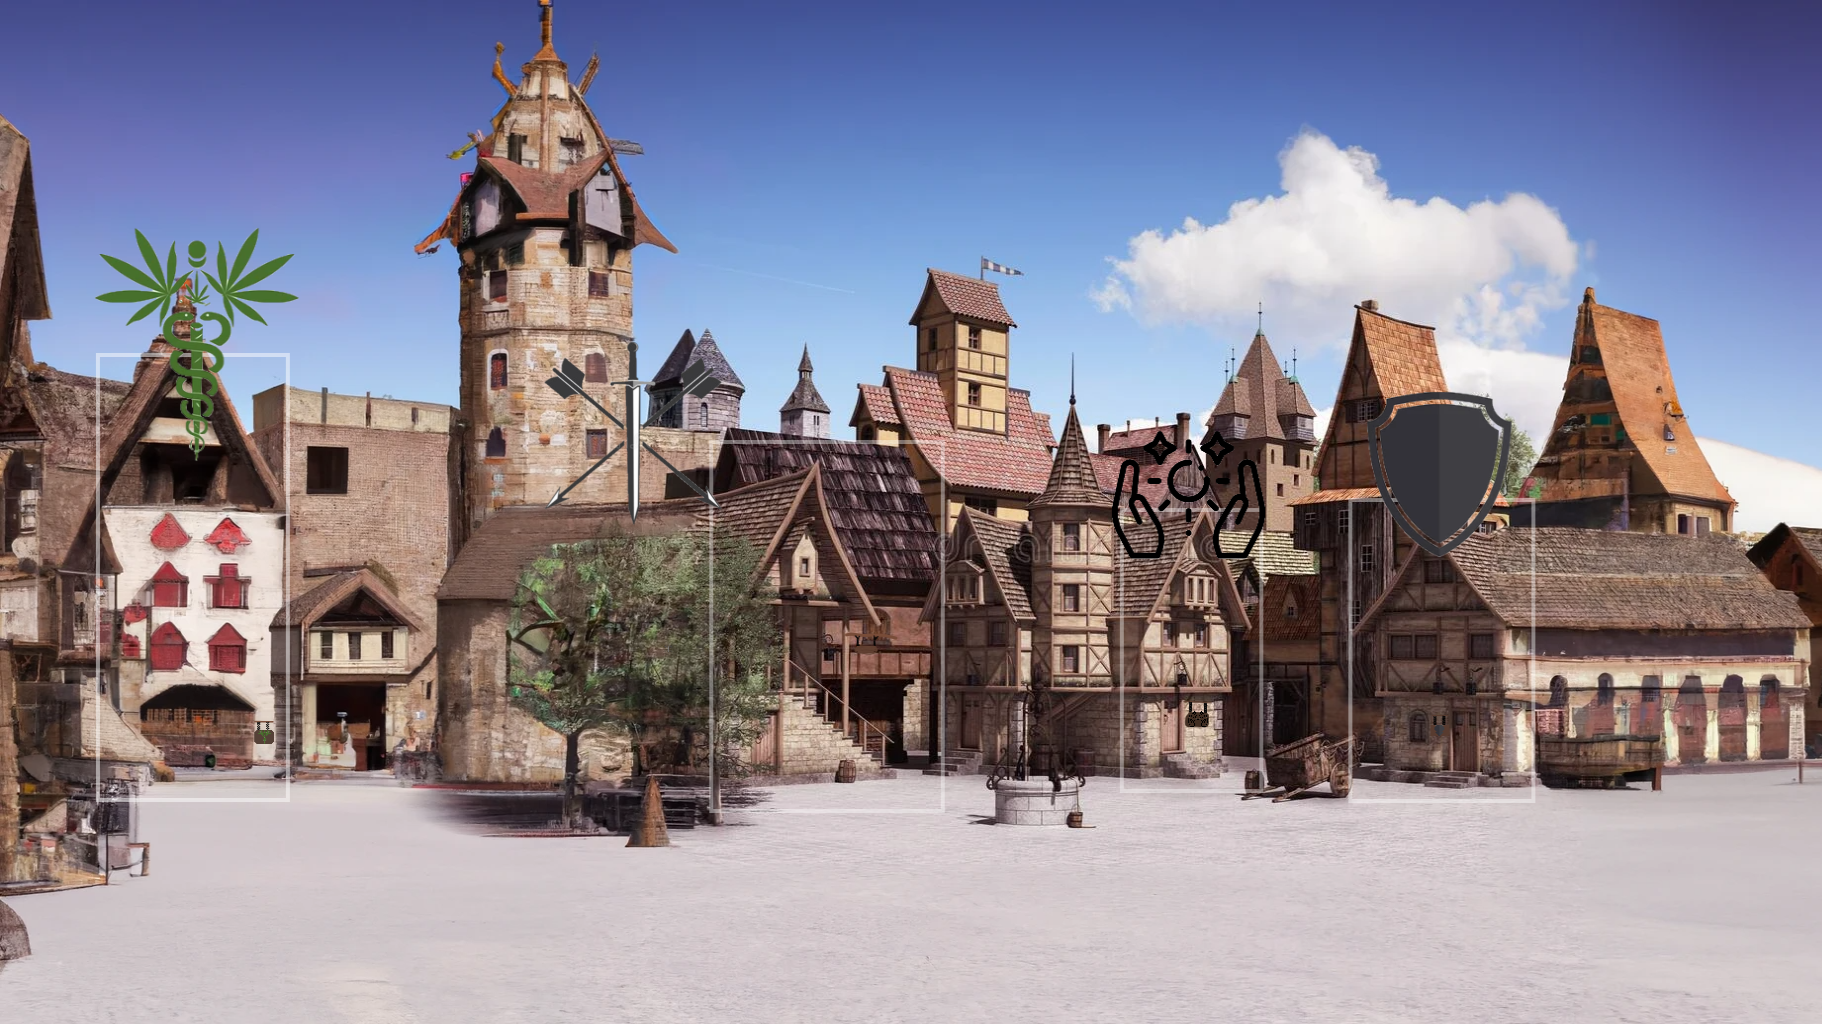
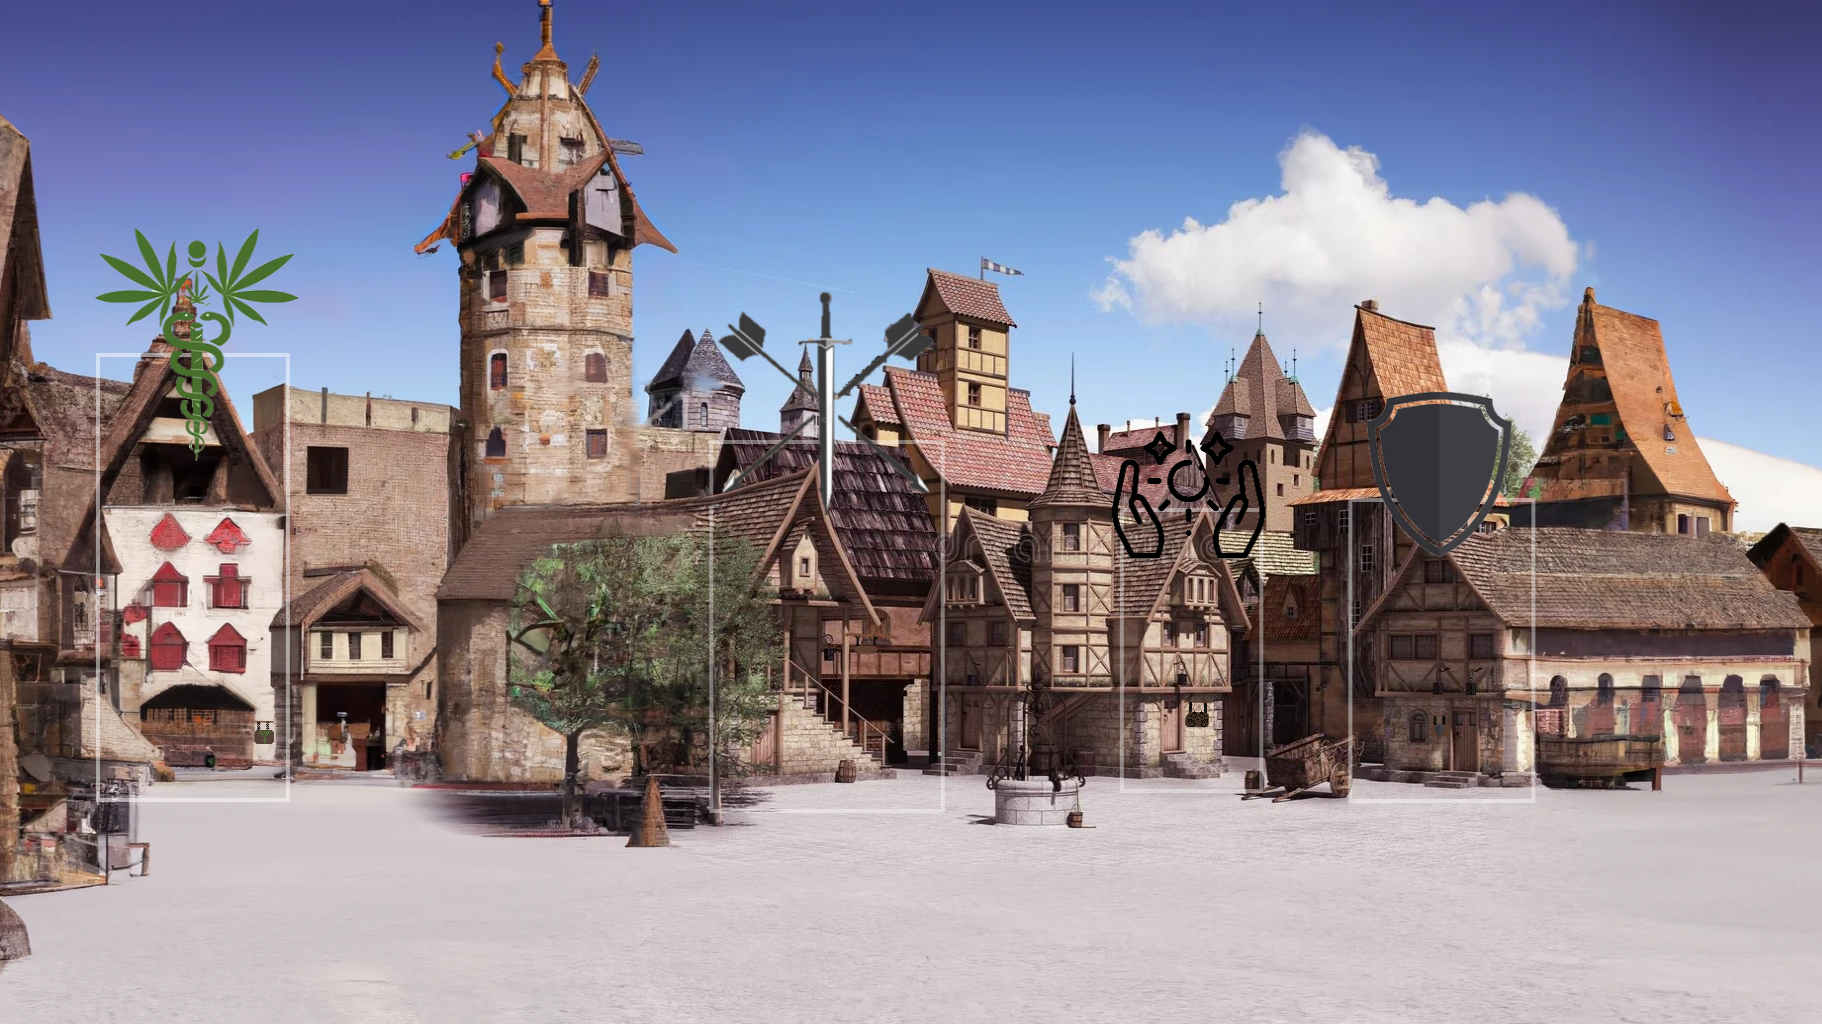
shopping

Changed region(s): [[0.3074, 0.2812, 0.5225, 0.5]]

diff --git a/Test-Code/shop/shop.html b/Test-Code/shop/shop.html
@@ -5,8 +5,14 @@
     <meta http-equiv="X-UA-Compatible" content="IE=edge">
     <meta name="viewport" content="width=device-width, initial-scale=1.0">
     <title>Shopping time</title>
+    <link href="style.css" rel="stylesheet">
 </head>
 <body>
-    
+    <div id="images">
+        <img src="img/blacksmith.png" alt="blacksmith" id="sword">
+        <img src="img/shield.png" alt="armory" id="shield" width="200" height="200">
+        <img src="img/spell.png" alt="spells" id="spell" width="200" height="200">
+        <img src="img/weed.png" alt="medical weed shop" id="weed">
+    </div>
 </body>
 </html>

diff --git a/Test-Code/shop/style.css b/Test-Code/shop/style.css
@@ -1,0 +1,29 @@
+body{
+    background-image: url('img/shop.png');
+    background-repeat: no-repeat;
+    background-attachment: fixed;  
+    background-size: cover;
+  }
+
+img{
+    position: absolute;
+}
+#sword{
+    left: 32%;
+    top: 15%;
+}
+
+#weed{
+    left:4%;
+    top: 17%;
+}
+
+#spell{
+    left:62.5%;
+    top:31%;
+}
+
+#shield{
+    left: 76% ;
+    top: 32% ;
+}
